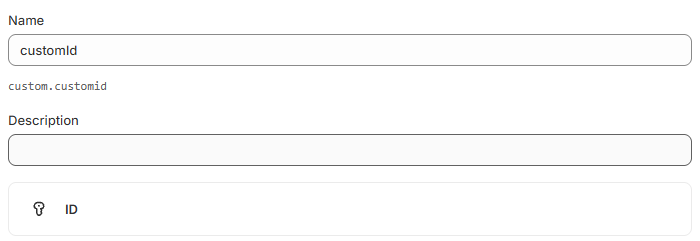
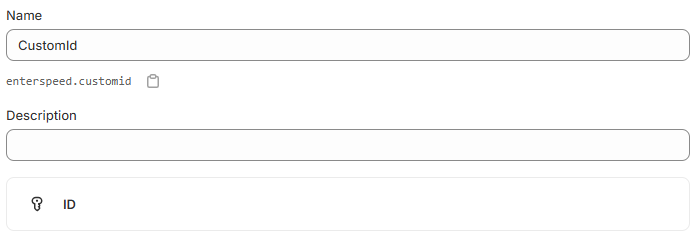
Added API secret key docs for shopify

diff --git a/docs/integrations/shopify.md b/docs/integrations/shopify.md
@@ -18,7 +18,7 @@ The jobs are executed in bulk requests to avoid hitting API rate limits in Shopi
 
 ## Requirements
 
-It's required to have a meta field called `custom.customId` of type `ID` on the object types the destination is used for. This field is used as an identifier when updating or deleting objects in Shopify through the destination.
+It's required to have a meta field called `enterspeed.customId` of type `ID` on the object types the destination is used for. This field is used as an identifier when updating or deleting objects in Shopify through the destination.
 
 ![Umbraco Content Structure](/img/docs/integrations/shopify/meta-field-custom-id.png)
 
@@ -29,7 +29,8 @@ In order to setup the Shopify configuration you need the following:
 | Setting                               | Description                            |
 | ------------------------------------- | -------------------------------------- |
 | Shopify store name                    | The unique store name in front of .myshopify.com. E.g. [my store name].myshopify.com |
-| Shopify access token                  | An admin API access token with the following permissions: `write_product_listings`, `read_product_listings`, `write_products`, `read_products` |
+| Shopify access token                  | A Developer app API access token with the following permissions: `write_product_listings`, `read_product_listings`, `write_products`, `read_products` |
+| Shopify API secret key                | A Developer app API secret key
 | Enterspeed Environment Client API Key | The API key for an Enterspeed Environment client. This is used to fetch the view that will be inserted into Shopify |
 
 ## Options
